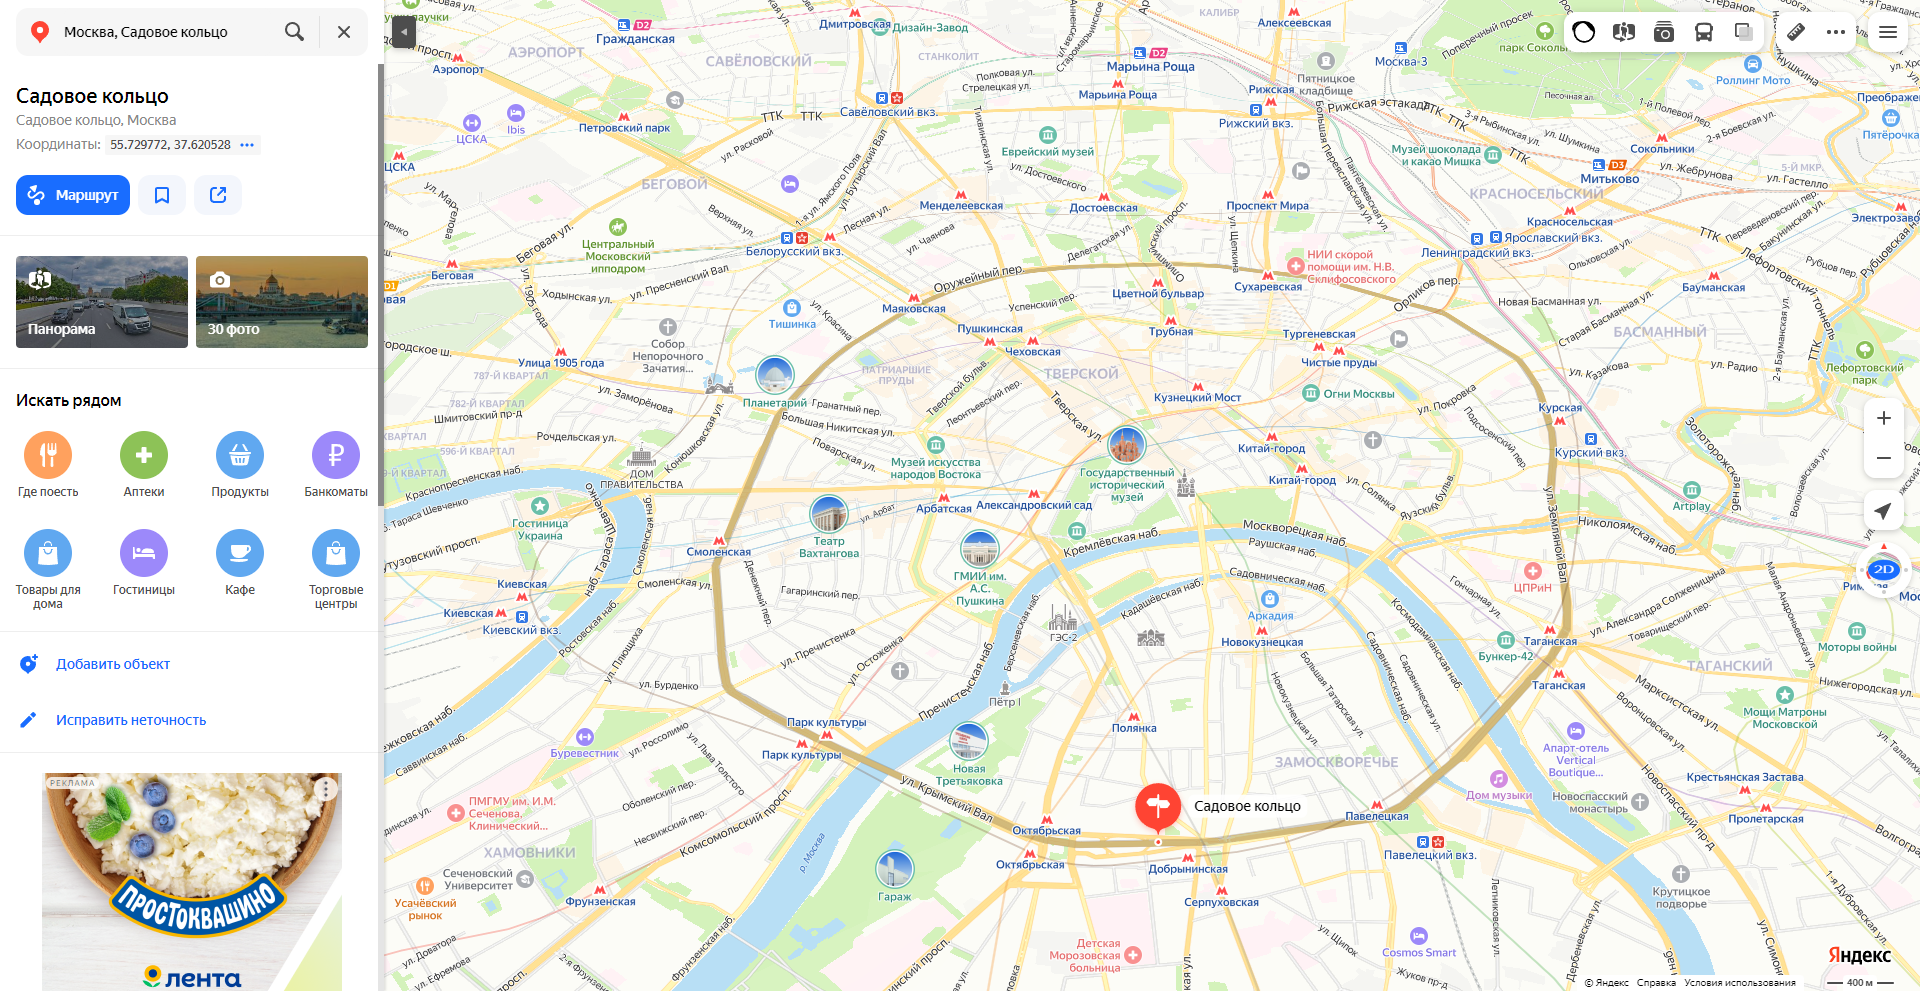
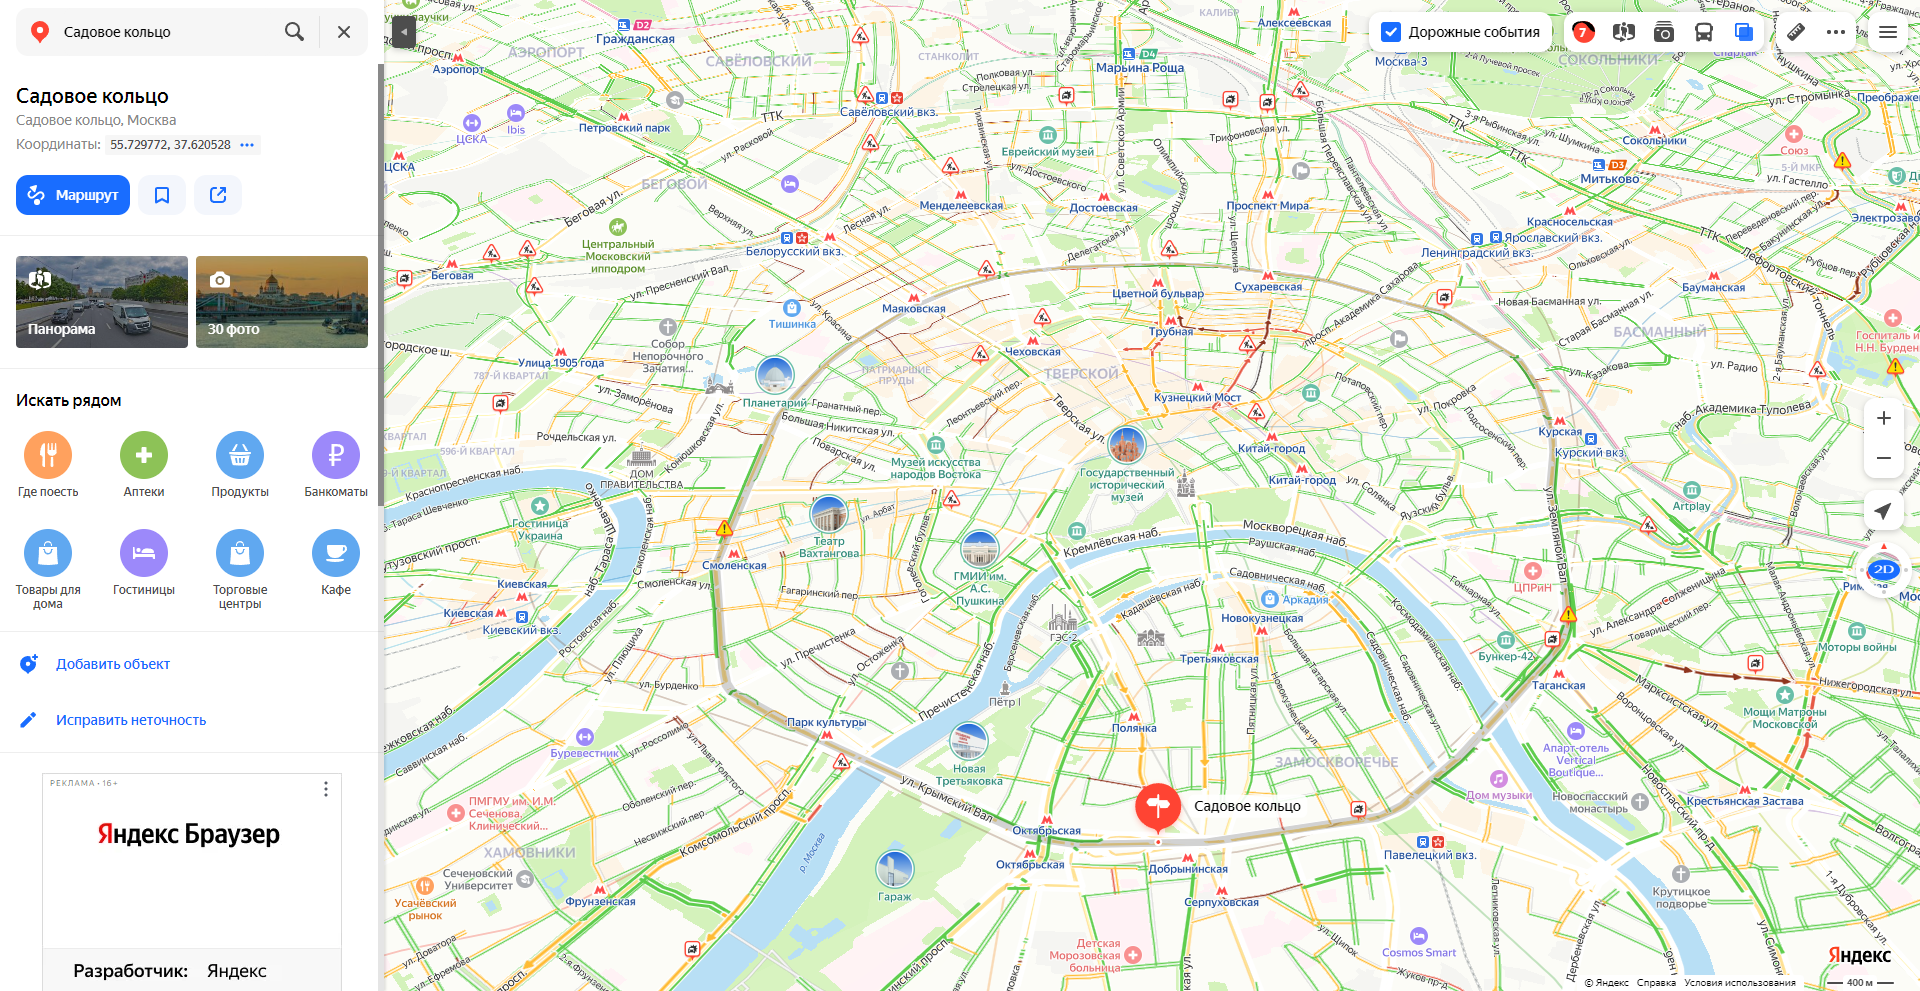
Updated validation terms of 'test_traffic_btn_click'

diff --git a/tests/map_page_positive.py b/tests/map_page_positive.py
@@ -386,11 +386,12 @@ class TestMapPagePositive:
         """Позитивный тест проверки нажатия кнопки "Дорожная ситуация", отображающей на карте текущую ситуацию на
         дорогах города. Валидация теста выполнена успешно в случае, если после воздействия на контроллер на
         дорогах города отображается текущая плотность трафика с обозначением "зеленых", "красных", "оранжевых" зон
-        (степень загруженности участка дороги), контроллер кнопки отображает индекс загруженности по шкале 1/10."""
+        (степень загруженности участка дороги), контроллер кнопки отображает индекс загруженности дорог (ИЗД) по шкале
+        1/10."""
 
         with allure.step("Шаг 1: Перейти на сайт https://yandex.ru/maps/ и дождаться полной загрузки всех элементов."):
             page = MainPage(driver)
-            page.wait_page_loaded()
+            page.wait_page_loaded(check_page_changes=True)
         with allure.step("Шаг 2: В поле 'Поиск мест и адресов' ввести название места с интересующей дорожной "
                          "обстановкой"):
             page.enter_searching_address(driver, traffic_point)
@@ -398,19 +399,21 @@ class TestMapPagePositive:
             page.switch_to_3D_map_click(driver)
             page.wait_page_loaded()
         with allure.step("Шаг 3: Нажать на элемент 'Дорожная ситуация'."):
-            page.traffic_btn_click(driver)
-            page.wait_page_loaded()
-        with allure.step("Шаг 4: Выполнить проверку результата теста."):
-            if True:
+            page.traffic_btn_click()
+            page.wait_page_loaded(check_page_changes=True)
+            result = page.get_value_of_traffic_index()
+        with allure.step("Шаг 4: Проверить отображение значения ИЗД на элементе 'Дорожная ситуация'."):
+            if result != '':
                 page.make_screenshot(file_path=screenshots_folder + "\\test_traffic_btn_click.png")
                 allure.attach(page.get_page_screenshot_PNG(),
                               name="traffic_btn_click_PASSED",
                               attachment_type=allure.attachment_type.PNG)
-                page.traffic_btn_click(driver)
+                page.traffic_btn_click()
                 page.clear_searching_field(driver)
                 page.switch_off_3D_map_mode(driver)
                 page.wait_page_loaded()
-                print(Style.DIM + Fore.GREEN + f"\n Тест test_traffic_btn_click выполнен успешно!")
+                print(Style.DIM + Fore.GREEN + f"\n Тест test_traffic_btn_click выполнен успешно!\n"
+                                               f"Индекс загруженности дорог равен: {result}")
             else:
                 allure.attach(page.get_page_screenshot_PNG(),
                               name="traffic_btn_click_FAILED",

diff --git a/pages/main_page.py b/pages/main_page.py
@@ -207,12 +207,19 @@ class MainPage(BasePage):
         result = scale_line.text
         return result
 
-    def traffic_btn_click(self, driver):
+    def traffic_btn_click(self):
         """Осуществляет нажатие кнопки 'Дорожная ситуация' для отображения на карте уровня загруженности дорог(пробок) и
         дорожной обстановки."""
 
-        traffic = driver.find_element(*MapPageLocators.MAP_TRAFFIC_BTN)
+        traffic = self.driver.find_element(*MapPageLocators.MAP_TRAFFIC_BTN)
         traffic.click()
+
+    def get_value_of_traffic_index(self) -> str:
+        """Метод для получения(парсинга) значения индекса загруженности дорог. Необходим
+        для валидации теста."""
+
+        index_value = self.driver.find_element(*MapPageLocators.MAP_TRAFFIC_INDEX_VAL).text
+        return index_value
 
     def city_transprt_btn_click(self, driver):
         """Осуществляет нажатие кнопки 'Движущийся транспорт' для отображения на карте движущихся единиц общественного

diff --git a/pages/locators.py b/pages/locators.py
@@ -35,6 +35,7 @@ class MapPageLocators:
                                                                   "-hint']")
     MAP_TRAVEL_TIME_BY_FOOT = (By.CSS_SELECTOR, "div[class='pedestrian-route-snippet-view__route-title-primary']")
     MAP_TRAFFIC_BTN = (By.CSS_SELECTOR, "a[aria-label='Пробки в Москве']")
+    MAP_TRAFFIC_INDEX_VAL = (By.CSS_SELECTOR, 'div[class="traffic-raw-icon__text"]')
     MAP_CITY_TRANSPORT = (By.CSS_SELECTOR, "a[aria-label='Движущийся транспорт']")
 
     MAP_DETAILS_MENU = (By.CSS_SELECTOR, "button[aria-label='Детали']")
